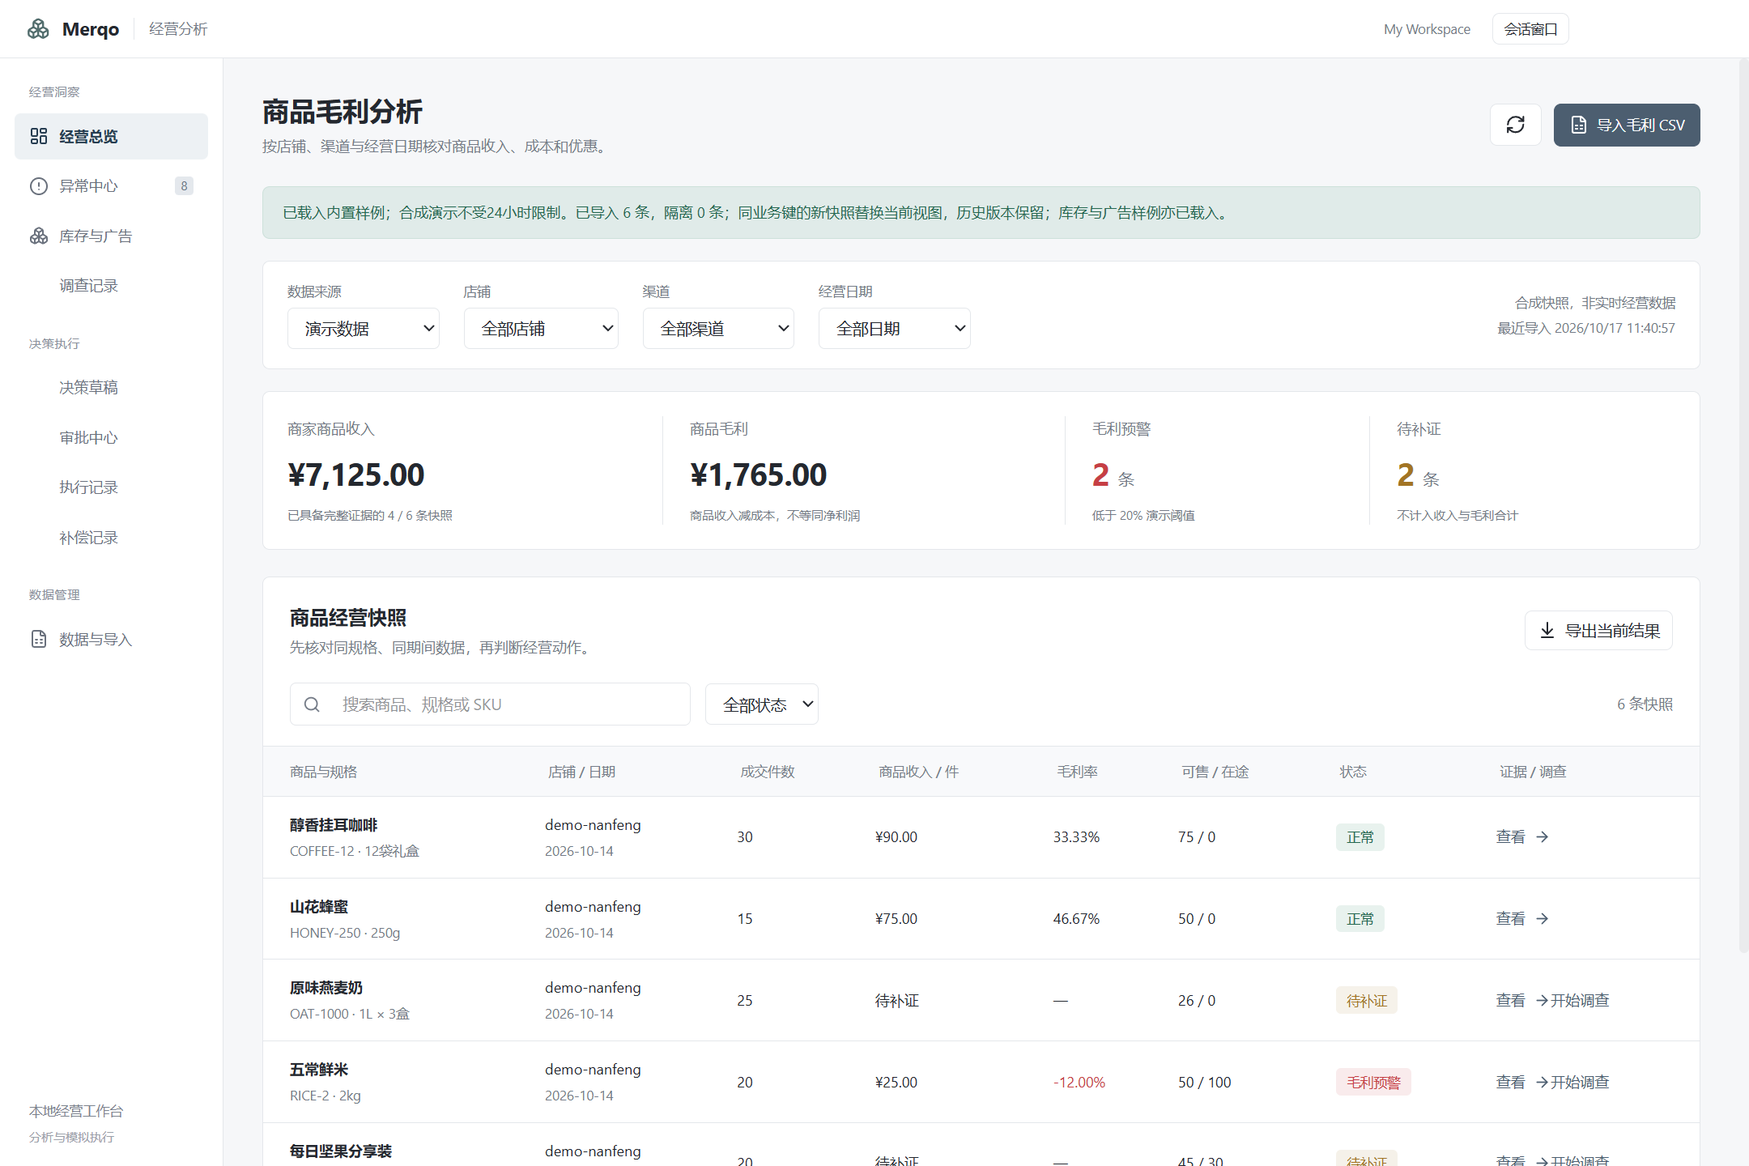
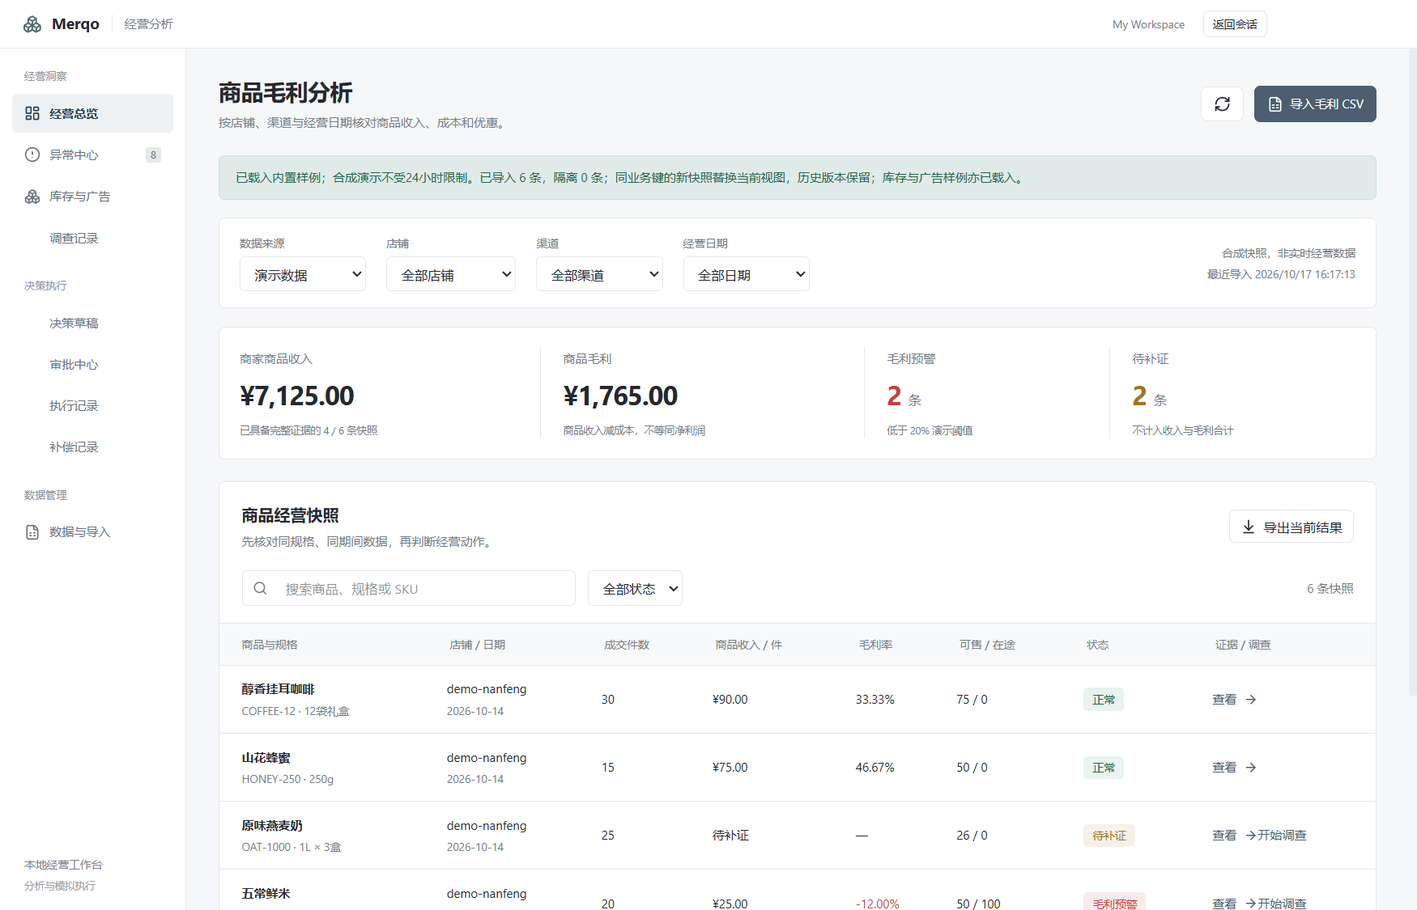
fix(retail): switch analysis and conversations within one window

diff --git a/apps/electron/src/renderer/App.tsx b/apps/electron/src/renderer/App.tsx
@@ -291,7 +291,22 @@ export default function App() {
   // App state: loading -> check auth -> onboarding or ready
   const [appState, setAppState] = useState<AppState>('loading')
   const [setupNeeds, setSetupNeeds] = useState<SetupNeeds | null>(null)
-  const retailSurface = new URLSearchParams(window.location.search).get('surface') === 'retail'
+  const [retailSurface, setRetailSurface] = useState(() => {
+    const params = new URLSearchParams(window.location.search)
+    return params.get('view') === 'retail' || params.get('surface') === 'retail'
+  })
+  const [retailVisited, setRetailVisited] = useState(retailSurface)
+  useEffect(() => window.electronAPI.onRetailSurface(action => {
+    if (action === 'open') setRetailVisited(true)
+    setRetailSurface(action === 'open')
+  }), [])
+  useEffect(() => {
+    const url = new URL(window.location.href)
+    url.searchParams.delete('surface')
+    if (retailSurface) url.searchParams.set('view', 'retail')
+    else url.searchParams.delete('view')
+    window.history.replaceState(window.history.state, '', url)
+  }, [retailSurface])
 
   // Per-session Jotai atom setters for isolated updates
   // NOTE: No sessionsAtom - we don't store a Session[] array anywhere to prevent memory leaks
@@ -742,7 +757,7 @@ export default function App() {
     }
 
     initialize()
-  }, [retailSurface])
+  }, [])
 
   // Session selection state
   const [sessionSelection, setSession] = useSession()
@@ -2047,7 +2062,7 @@ export default function App() {
   return (
     <PlatformProvider actions={platformActions}>
     <ShikiThemeProvider shikiTheme={shikiTheme}>
-      <ActionRegistryProvider>
+      <ActionRegistryProvider enabled={!retailSurface}>
       <FocusProvider>
         <DismissibleLayerProvider>
         <ModalProvider>
@@ -2087,9 +2102,11 @@ export default function App() {
               />
             )}
             <div className="flex-1 min-h-0">
-              {retailSurface ? (
-                <RetailWorkspace key={windowWorkspaceId} workspaceName={workspaces.find(w=>w.id===windowWorkspaceId)?.name} onOpenAgent={()=>{void window.electronAPI.retailWindow('agent').then(r=>{if(!r.ok)toast.error(r.error??'会话窗口打开失败')}).catch(()=>toast.error('会话窗口打开失败'))}}/>
-              ) : sessionLoadError ? (
+              {retailVisited && <div hidden={!retailSurface} className="h-full" {...(!retailSurface ? { inert: '' } : {})}>
+                <RetailWorkspace active={retailSurface} key={windowWorkspaceId} workspaceName={workspaces.find(w=>w.id===windowWorkspaceId)?.name} onOpenAgent={()=>{void window.electronAPI.retailWindow('agent').then(r=>{if(!r.ok)toast.error(r.error??'返回会话失败')}).catch(()=>toast.error('返回会话失败'))}}/>
+              </div>}
+              <div hidden={retailSurface} className="h-full" {...(retailSurface ? { inert: '' } : {})}>
+              {sessionLoadError ? (
                 <SessionLoadErrorScreen
                   message={sessionLoadError}
                   onRetry={() => { void loadSessionsFromServer() }}
@@ -2102,6 +2119,7 @@ export default function App() {
                   isFocusedMode={isFocusedMode}
                 />
               )}
+              </div>
             </div>
             <ResetConfirmationDialog
               open={showResetDialog}

diff --git a/apps/electron/src/renderer/retail/RetailWorkspace.tsx b/apps/electron/src/renderer/retail/RetailWorkspace.tsx
@@ -29,7 +29,7 @@ function download(name: string, content: string, mime = 'text/csv;charset=utf-8'
   const anchor = document.createElement('a'); anchor.href = url; anchor.download = name; anchor.click();
   setTimeout(() => URL.revokeObjectURL(url), 1000);
 }
-export function RetailWorkspace({ onOpenAgent, workspaceName }: { onOpenAgent: () => void; workspaceName?: string }) {
+export function RetailWorkspace({ onOpenAgent, workspaceName, active = true }: { onOpenAgent: () => void; workspaceName?: string; active?: boolean }) {
   const followupReview=useCallback((run:AnyInvestigation)=>{setInvestigationTarget(null);setInvestigationId(run.id);setPage('investigations');},[]);
   const [investigationId,setInvestigationId]=useState<string|null>(null);
   const [reviewJobId,setReviewJobId]=useState<string|null>(null);
@@ -45,10 +45,10 @@ export function RetailWorkspace({ onOpenAgent, workspaceName }: { onOpenAgent: (
   const [shop, setShop] = useState(''); const [channel, setChannel] = useState(''); const [date, setDate] = useState('');
   const [query, setQuery] = useState(''); const [status, setStatus] = useState('all');
   const [selected, setSelected] = useState<EvidenceRecord | null>(null);
-  useRegisterDismissibleLayer(useMemo(() => selected ? {
+  useRegisterDismissibleLayer(useMemo(() => active && selected ? {
     id: 'retail-evidence', type: 'modal' as const, priority: 100,
     close: () => setSelected(null),
-  } : null, [selected]));
+  } : null, [selected, active]));
   const detailRef = useRef<HTMLElement>(null);
   const [busy, setBusy] = useState(false); const pending = useRef(false);
   const [error, setError] = useState(''); const [notice, setNotice] = useState('');
@@ -106,7 +106,7 @@ export function RetailWorkspace({ onOpenAgent, workspaceName }: { onOpenAgent: (
   };
   const updateMapping = (key: string, value: string) => { setMapping(current => ({ ...current, [key]: value })); setPreview(current => current ? { ...current, valid: [] } : null); };
   return <div className="retail-app" data-testid="retail-workspace">
-    <header className="retail-windowbar"><div className="retail-wordmark"><Boxes size={19}/><strong>Merqo</strong><span>经营分析</span></div><div className="retail-windowbar-actions"><span>{workspaceName??'当前工作空间'}</span><button onClick={onOpenAgent}>会话窗口</button></div></header>
+    <header className="retail-windowbar"><div className="retail-wordmark"><Boxes size={19}/><strong>Merqo</strong><span>经营分析</span></div><div className="retail-windowbar-actions"><span>{workspaceName??'当前工作空间'}</span><button onClick={onOpenAgent}>返回会话</button></div></header>
     <div className="retail-window-layout">
     <aside className="retail-navigation"><nav aria-label="经营导航">
       <p className="retail-nav-group">经营洞察</p>

diff --git a/apps/electron/src/main/window-manager.ts b/apps/electron/src/main/window-manager.ts
@@ -199,7 +199,6 @@ export class WindowManager {
   createWindow(options: CreateWindowOptions): BrowserWindow {
     const { workspaceId, focused = false, initialDeepLink, restoreUrl } = options
     let retail = options.retail === true
-    if (restoreUrl) { try { retail = retail || new URL(restoreUrl).searchParams.get('surface') === 'retail' } catch { /* use explicit role */ } }
 
     if (retail) {
       const existing = [...this.windows.values()].find(m => m.retail && m.workspaceId === workspaceId && !m.window.isDestroyed())
@@ -557,18 +556,6 @@ export class WindowManager {
     return null
   }
 
-  /** One independent retail window per workspace; repeated entry preserves its current page. */
-  openRetailWindow(workspaceId: string): BrowserWindow {
-    const existing = [...this.windows.values()].find(m => m.retail && m.workspaceId === workspaceId && !m.window.isDestroyed())
-    if (existing) {
-      if (existing.window.isMinimized()) existing.window.restore()
-      existing.window.show()
-      existing.window.focus()
-      return existing.window
-    }
-    return this.createWindow({workspaceId, retail: true})
-  }
-
   /**
    * Get ALL windows for a workspace (main window + tab content windows)
    * Used for broadcasting events to all windows showing the same workspace
@@ -687,7 +674,6 @@ export class WindowManager {
   registerWindow(window: BrowserWindow, workspaceId: string): void {
     const webContentsId = window.webContents.id
     let retail = this.windows.get(webContentsId)?.retail ?? false
-    try { retail = retail || new URL(window.webContents.getURL()).searchParams.get('surface') === 'retail' } catch { /* renderer may still be loading */ }
     this.windows.set(webContentsId, { window, workspaceId, retail })
     // Re-apply window-title policy after re-registration (e.g. post-refresh).
     this.refreshWindowTitles()

diff --git a/apps/electron/src/main/__tests__/retail-window-migration.test.ts b/apps/electron/src/main/__tests__/retail-window-migration.test.ts
@@ -1,0 +1,32 @@
+import { describe, expect, it } from 'bun:test'
+import { migrateRetailWindows, type SavedWindow } from '../window-state'
+
+const saved = (workspaceId: string, query = ''): SavedWindow => ({
+  type: 'main', workspaceId, bounds: { x: 0, y: 0, width: 1400, height: 900 },
+  url: `file:///app/index.html?workspaceId=${workspaceId}${query}`,
+})
+
+describe('former dedicated analysis window migration', () => {
+  it('keeps the conversation route when both old windows were saved, regardless of order', () => {
+    const agent = saved('a', '&route=allSessions/session/123')
+    const retail = saved('a', '&surface=retail')
+    expect(migrateRetailWindows([retail, agent])).toEqual([agent])
+    expect(migrateRetailWindows([agent, retail])).toEqual([agent])
+  })
+  it('restores a sole legacy analysis window as an ordinary window with an analysis view', () => {
+    const original = saved('a', '&surface=retail')
+    const result = migrateRetailWindows([original, original])
+    expect(result).toHaveLength(1)
+    const url = new URL(result[0]!.url!)
+    expect(url.searchParams.get('surface')).toBeNull()
+    expect(url.searchParams.get('view')).toBe('retail')
+    expect(original.url).toContain('surface=retail')
+  })
+  it('preserves intentionally opened modern windows and other workspace windows', () => {
+    const windows = [saved('a'), saved('a', '&view=retail'), saved('b', '&surface=retail')]
+    const migrated = migrateRetailWindows(windows)
+    expect(migrated).toHaveLength(3)
+    expect(migrated.slice(0, 2)).toEqual(windows.slice(0, 2))
+    expect(migrateRetailWindows(migrated)).toEqual(migrated)
+  })
+})

diff --git a/apps/electron/src/main/window-state.ts b/apps/electron/src/main/window-state.ts
@@ -29,6 +29,24 @@ export interface WindowState {
   lastFocusedWorkspaceId?: string
 }
 
+/** Fold the former dedicated analysis window into its workspace's primary window.
+ * Modern view=retail windows remain ordinary windows and are never deduplicated.
+ */
+export function migrateRetailWindows(windows: SavedWindow[]): SavedWindow[] {
+  const legacy = (saved: SavedWindow) => {
+    try { return new URL(saved.url ?? '').searchParams.get('surface') === 'retail' } catch { return false }
+  }
+  const primary = windows.filter(saved => !legacy(saved))
+  for (const saved of windows.filter(legacy)) {
+    if (primary.some(item => item.workspaceId === saved.workspaceId)) continue
+    const url = new URL(saved.url!)
+    url.searchParams.delete('surface')
+    url.searchParams.set('view', 'retail')
+    primary.push({ ...saved, url: url.toString() })
+  }
+  return primary
+}
+
 const CONFIG_DIR = process.env.CRAFT_CONFIG_DIR || join(homedir(), '.retailpilot')
 const WINDOW_STATE_FILE = join(CONFIG_DIR, 'window-state.json')
 
@@ -68,7 +86,7 @@ export function loadWindowState(): WindowState | null {
     }
 
     mainLog.info('[WindowState] Loaded window state:', state.windows.length, 'windows')
-    return state
+    return { ...state, windows: migrateRetailWindows(state.windows) }
   } catch (error) {
     mainLog.error('[WindowState] Failed to load window state:', error)
     return null

diff --git a/apps/electron/src/renderer/actions/registry.tsx b/apps/electron/src/renderer/actions/registry.tsx
@@ -26,7 +26,7 @@ interface ActionRegistryContextType {
 
 const ActionRegistryContext = createContext<ActionRegistryContextType | null>(null)
 
-export function ActionRegistryProvider({ children }: { children: React.ReactNode }) {
+export function ActionRegistryProvider({ children, enabled = true }: { children: React.ReactNode; enabled?: boolean }) {
   const handlersRef = useRef<Map<ActionId, ActionHandler[]>>(new Map())
   const userOverrides = useRef<Map<ActionId, string | null>>(new Map())
 
@@ -79,6 +79,7 @@ export function ActionRegistryProvider({ children }: { children: React.ReactNode
   // Set up global hotkey listener
   useEffect(() => {
     const handleKeyDown = (e: KeyboardEvent) => {
+      if (!enabled) return
       // Build context snapshot from DOM state at event time
       const context = getKeybindingContext(e)
 
@@ -105,7 +106,7 @@ export function ActionRegistryProvider({ children }: { children: React.ReactNode
     // Capture phase for reliable interception
     window.addEventListener('keydown', handleKeyDown, true)
     return () => window.removeEventListener('keydown', handleKeyDown, true)
-  }, [getHotkey])
+  }, [getHotkey, enabled])
 
   const value: ActionRegistryContextType = {
     register,

diff --git a/apps/electron/src/main/retail.ts b/apps/electron/src/main/retail.ts
@@ -17,8 +17,8 @@ export function registerRetailIpc(getWindowManager: () => WindowManager | null):
       const workspaceId = manager?.getWorkspaceForWindow(event.sender.id);
       const workspace = workspaceId ? getWorkspaceByNameOrId(workspaceId) : null;
       if (!manager || !workspaceId || !workspace || workspace.remoteServer) throw new Error('请选择本机 Workspace；远程经营窗口暂不支持');
-      if (action === 'open') manager.openRetailWindow(workspaceId);
-      else manager.focusOrCreateWindow(workspaceId);
+      // Switch only the trusted calling renderer; navigation never creates a window.
+      event.sender.send('retail:surface', action);
       return {ok:true};
     } catch (error) { return {ok:false,error:error instanceof Error ? error.message : '窗口打开失败'}; }
   });

diff --git a/apps/electron/src/preload/bootstrap.ts b/apps/electron/src/preload/bootstrap.ts
@@ -445,5 +445,12 @@ client.onConnectionStateChanged((state) => {
 }
 
 ;(api as ElectronAPI).retailWindow = action => ipcRenderer.invoke('retail:window', action)
+;(api as ElectronAPI).onRetailSurface = callback => {
+  const listener = (_event: Electron.IpcRendererEvent, action: unknown) => {
+    if (action === 'open' || action === 'agent') callback(action)
+  }
+  ipcRenderer.on('retail:surface', listener)
+  return () => { ipcRenderer.removeListener('retail:surface', listener) }
+}
 ;(api as ElectronAPI).retailRequest = (request) => ipcRenderer.invoke('retail:request', request)
 contextBridge.exposeInMainWorld('electronAPI', api)

diff --git a/apps/electron/src/transport/__tests__/channel-map-parity.test.ts b/apps/electron/src/transport/__tests__/channel-map-parity.test.ts
@@ -23,6 +23,7 @@ type ApiToChannelMapKeys = Exclude<
   | 'getSystemWarnings' // reads env var set at startup — no IPC needed
   | 'relaunchApp' // direct IPC to main process — not through WS RPC
   | 'retailWindow' // direct IPC; workspace inferred from the trusted calling window
+  | 'onRetailSurface' // direct IPC subscription for navigation in the calling window
   | 'retailRequest' // direct IPC; trusted local window determines retail database scope
   | 'removeWorkspace' // direct IPC to main process — modifies local config
   | 'invokeOnServer' // direct IPC to main process — cross-server RPC

diff --git a/apps/electron/src/shared/types.ts b/apps/electron/src/shared/types.ts
@@ -225,6 +225,7 @@ import type {
 
 export interface ElectronAPI {
   retailWindow(action: 'open' | 'agent'): Promise<{ok: boolean; error?: string}>
+  onRetailSurface(callback: (action: 'open' | 'agent') => void): () => void
   retailRequest(request: import('../../../../packages/retail-domain/src/operations').RetailRequest): Promise<import('../../../../packages/retail-domain/src/operations').RetailReply>
   // Session management
   getSessions(): Promise<Session[]>

diff --git a/docs/retail-window-design.md b/docs/retail-window-design.md
@@ -1,43 +1,25 @@
-# 独立经营分析窗口
+# 经营分析：同窗口切换
 
-日期：2026-10-17。
+2026-10-17 根据用户最新确认替代原独立窗口设计。点击主侧栏“经营分析”，在同一个 BrowserWindow 内显示分析界面；“返回会话”切回原会话界面。保留分析页分组导航、浅色布局和数据。
 
-主窗口保留“经营分析”入口。点击后在同一应用内创建独立桌面窗口，主窗口保持原会话与导航。每个本机 workspace 同时只保留一个经营窗口；重复进入聚焦并恢复该窗口，不重置页面、不新建业务数据库。“会话窗口”回到对应 workspace 的普通窗口；普通窗口已关闭时重新创建。
+## 实现
 
-## 界面
+- 原 retail:window IPC 保留调用签名，只验证本机工作空间和主 frame，再向调用方发送 retail:surface 导航事件；不创建、聚焦或关闭其他窗口。preload 仅暴露类型明确的订阅及取消订阅。
+- App 持有页面状态。会话界面和首次进入后的分析界面保留挂载；非活动区域 hidden + inert，分析证据抽屉只在分析界面活动时注册 Escape 层。返回后继续原会话和分析筛选。
+- 当前界面以 view=retail 保存到窗口 URL，正常退出后随原窗口恢复。旧版 surface=retail 配套窗口在读取窗口状态时合并；优先保留会话窗口的路由与尺寸。仅有旧分析窗口时转换为普通窗口的分析界面。用户主动创建的现代多窗口不去重。
+- 本次不修改业务数据库、模型配置、调查和审批规则。
 
-- 白色内容面 `#ffffff`、浅灰页面 `#f6f7f9`、深灰文字 `#24282f`、灰色辅助文字 `#737b87`、细分隔线 `#e4e7eb`、蓝灰操作色 `#4b5e70`。
-- 使用 Segoe UI / Microsoft YaHei UI，标题、分组和辅助信息分级；数字保持等宽。无渐变背景、无装饰插画、无大面积阴影。
-- 顶部只有产品名、经营分析、workspace 名称、会话窗口入口及原生窗口控制。
-- 左侧分为经营洞察、决策执行、数据管理。移除通用会话、API、MCP、技能等侧栏和密集横向标签。
-- 筛选、指标、表格用独立白色区域分隔；调查、草稿、审批等保留记录列表与详情两栏，报告章节用分隔线及留白组织。
-- 独立经营窗口固定为简洁浅色，不改变主窗口的主题偏好。
+## 验收
 
-## 窗口与数据边界
+1. 点击经营分析，窗口数量和窗口 ID 不变，通用侧栏隐藏，分析页保留三组导航。
+2. 重复进入不新增窗口；返回会话，再次进入时保留分析页与筛选条件。
+3. 伪造工作空间的入口调用仍被拒绝。
+4. 正常退出后重启只恢复原窗口和所选界面；旧双窗口配置可迁移。
 
-通过类型化的 `retailWindow('open' | 'agent')` 预加载接口请求主进程。工作空间从已注册顶层 webContents 推导，拒绝子页面、未知动作、对象/路径和额外范围参数。前端不能指定另一个 workspace。沿用原 Electron contextIsolation、禁止 renderer Node 的边界，不新增通用窗口/任意 URL 打开能力。
+自动验证结果见同轮交付记录，历史独立窗口的截图和验收结果不代表本版本。
 
-窗口角色由主进程登记，URL 中的 surface 只用于选择渲染界面。保存和恢复时保留经营角色与实际 workspace；重复恢复不产生同空间的多个经营窗口。关闭经营窗口不关闭会话窗口；重开读取同一 SQLite 历史。未保存的表单输入不承诺跨关闭保留。
+本轮验证：迁移与 IPC 契约 5 项（1253 次断言）、Electron 类型检查、完整构建及最终 renderer 构建通过。桌面首轮 56 项、重启 16 项、正常保存 4 项、升级恢复 5 项通过。升级恢复前实际注入旧版配套分析窗口，确认恢复后仍只有一个窗口。桌面模型响应使用本地协议夹具，不代表真实模型业务质量验收。
 
-调查、草稿、审批、执行、补偿、复盘与 Case 规则不变。本次不新增真实业务写入，不改变 Reviewer 待补证或驳回状态。
+[验证记录](verification/single-window-2026-10-17.json)
 
-## 手动验收
-
-1. 主界面点击“经营分析”，确认出现单独窗口，原主界面仍可用。
-2. 分别进入三组导航，确认筛选、表格和详情清楚，横向长标签及聊天侧栏已移除。
-3. 在“调查记录”停留，切回主窗口再次点入口，应回到同一窗口和页面。
-4. 关闭经营窗口再打开，应继续使用原来的导入数据、草稿与历史。
-5. 使用右上角最小化、最大化和关闭；点击“会话窗口”应回到原工作空间。
-6. 重启应用后检查窗口角色和历史；原有三场景调查、审批、执行及复盘链路仍可操作。
-
-验证结果见 `verification/retail-window-2026-10-17.json`。截图与自动化使用隔离的合成数据空间，不修改用户经营记录。
-
-## 验证记录
-
-全项目类型检查、最终 Electron 类型检查、完整构建与最终 renderer 构建通过。传输契约 2 项、1244 次断言通过。原生完整首轮 57 项、同配置重启 18 项通过；正常退出保存 6 项、冷启动恢复 8 项通过。恢复阶段在点击主入口之前已观察到独立经营窗口，再核对一次单例及同空间数据。
-
-最初的新窗口重复显示连接欢迎页，已修复为无需配置模型即可进入本机分析；模型调查仍受原连接校验。一轮运行日志出现约 36 分钟间隔并超时，未计通过，随后同流程完整重跑通过。业务模型输出仍由本地协议 fixture 驱动，不作为真实模型质量评测。
-
-![主窗口入口](images/retail-entry.png)
-
-![独立经营分析窗口](images/retail-window.png)
+![同窗口经营分析](images/retail-window.png)

diff --git a/README.md b/README.md
@@ -82,9 +82,9 @@ Expected demo results:
 
 The sample 20% thresholds and two-day inventory buffer are **versioned demonstration rules**, not universal operating targets. Product gross profit excludes advertising, shipping and platform commissions.
 
-## Independent analysis window
+## Analysis in the current window
 
-Retail analysis opens in a dedicated window bound to the current local workspace. Repeat entry focuses the existing window and preserves its current page; **会话窗口** returns to the conversation workspace. Closing and reopening analysis retains saved data and history. Its neutral light layout groups navigation into insights, decisions/execution, and data management. Model credentials are required only when requesting a model investigation, not for opening local analysis.
+Retail analysis switches inside the current desktop window. Click **经营分析** to enter the grouped analysis surface, then **返回会话** to return to the conversation workspace. Switching preserves the conversation shell and analysis page/filter state without opening another window. A normal quit restores the selected surface; former dedicated analysis windows are folded into the primary workspace window on upgrade. Model credentials are required only when requesting a model investigation, not for opening local analysis.
 
 See [window design and acceptance](docs/retail-window-design.md).
 
